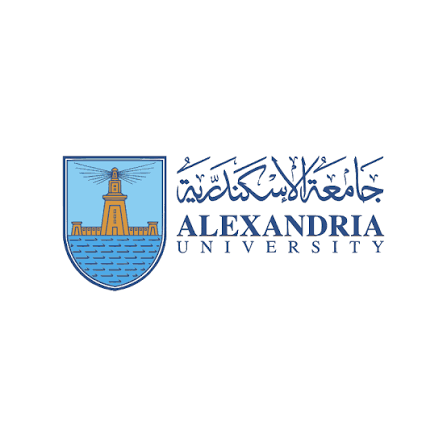
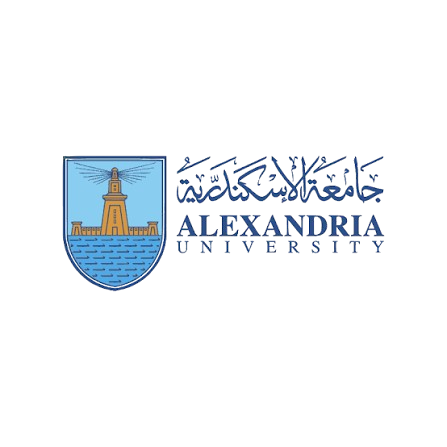
chnages

Changed region(s): [[0.1163, 0.349, 0.3781, 0.6107], [0.2036, 0.5817, 0.2327, 0.6107]]

diff --git a/index.html b/index.html
@@ -26,7 +26,7 @@
     <script src="https://assets.calendly.com/assets/external/widget.js" type="text/javascript" async></script>
     <!-- Calendly link widget end -->
 
-    <link rel="stylesheet" href="style.css?v=13">
+    <link rel="stylesheet" href="style.css?v=16">
     <!-- Schema.org Markup -->
     <script type="application/ld+json">
     {
@@ -271,15 +271,21 @@
     <script>
         // Detect if a dark mode extension (like Dark Reader) is forcing the body to be dark
         function checkForcedDarkMode() {
-            var bgColor = window.getComputedStyle(document.body).backgroundColor;
-            var rgb = bgColor.match(/\d+/g);
-            if (rgb && rgb.length >= 3) {
-                var brightness = (parseInt(rgb[0]) * 299 + parseInt(rgb[1]) * 587 + parseInt(rgb[2]) * 114) / 1000;
-                if (brightness < 128) {
-                    document.body.classList.add('dark-mode-forced');
-                } else {
-                    document.body.classList.remove('dark-mode-forced');
-                }
+            function isDark(element) {
+                if (!element) return false;
+                var bgColor = window.getComputedStyle(element).backgroundColor;
+                var rgba = bgColor.match(/[\d.]+/g);
+                if (!rgba || rgba.length < 3) return false;
+                if (rgba.length === 4 && parseFloat(rgba[3]) === 0) return false; // Ignore transparent
+                var brightness = (parseInt(rgba[0]) * 299 + parseInt(rgba[1]) * 587 + parseInt(rgba[2]) * 114) / 1000;
+                return brightness < 128;
+            }
+            
+            var banner = document.querySelector('.logo-banner-section');
+            if (isDark(document.body) || isDark(document.documentElement) || isDark(banner)) {
+                document.body.classList.add('dark-mode-forced');
+            } else {
+                document.body.classList.remove('dark-mode-forced');
             }
         }
         window.addEventListener('load', function() {

diff --git a/style.css b/style.css
@@ -357,7 +357,7 @@ ul {
     width: 100%;
     height: 100%;
     object-fit: cover;
-    transform: scale(1.15); /* Zoom in to crop out the white ring */
+    transform: scale(1.25) translateY(-5%); /* Zoom in more and shift up safely */
     border-radius: 0;
     border: none;
 }
